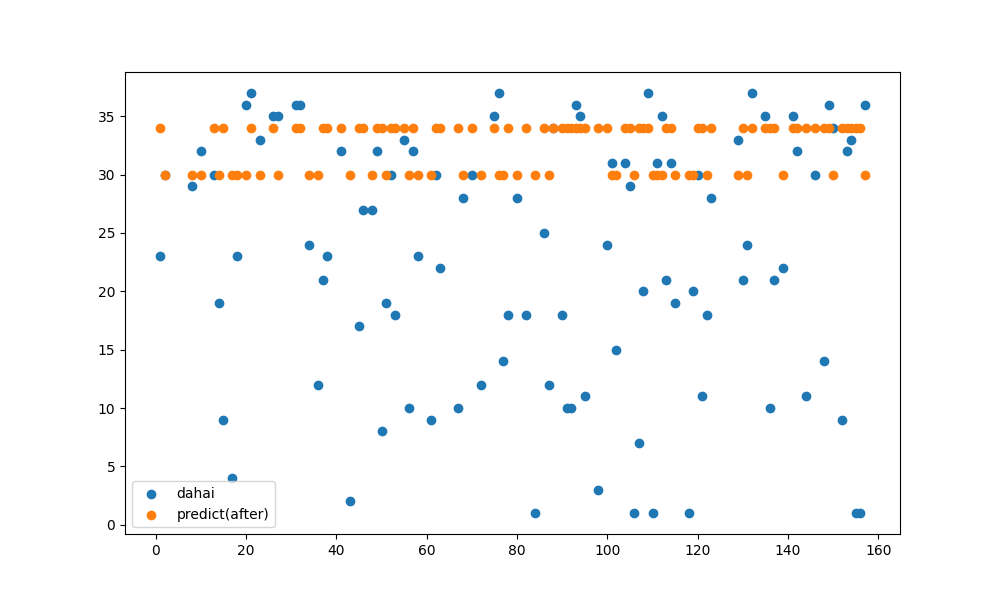
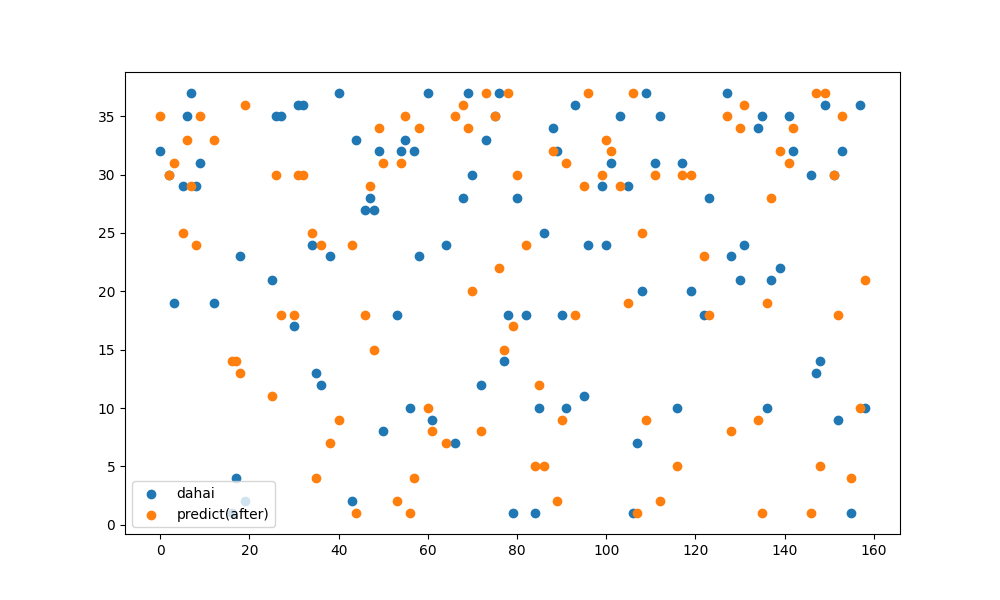
結果の見方を考えねば

diff --git a/2D_multi_class.py b/2D_multi_class.py
@@ -107,7 +107,7 @@ else:
     model.compile(loss="mse", optimizer="adam")
 
 # 学習させる
-hist = model.fit(train_x, train_y, batch_size=16, epochs=1, verbose=1)
+hist = model.fit(train_x, train_y, batch_size=16, epochs=100, verbose=1)
 history = hist.history
 plt.figure(figsize=(10, 6))
 plt.scatter(hist.epoch, history["loss"], label="loss")
